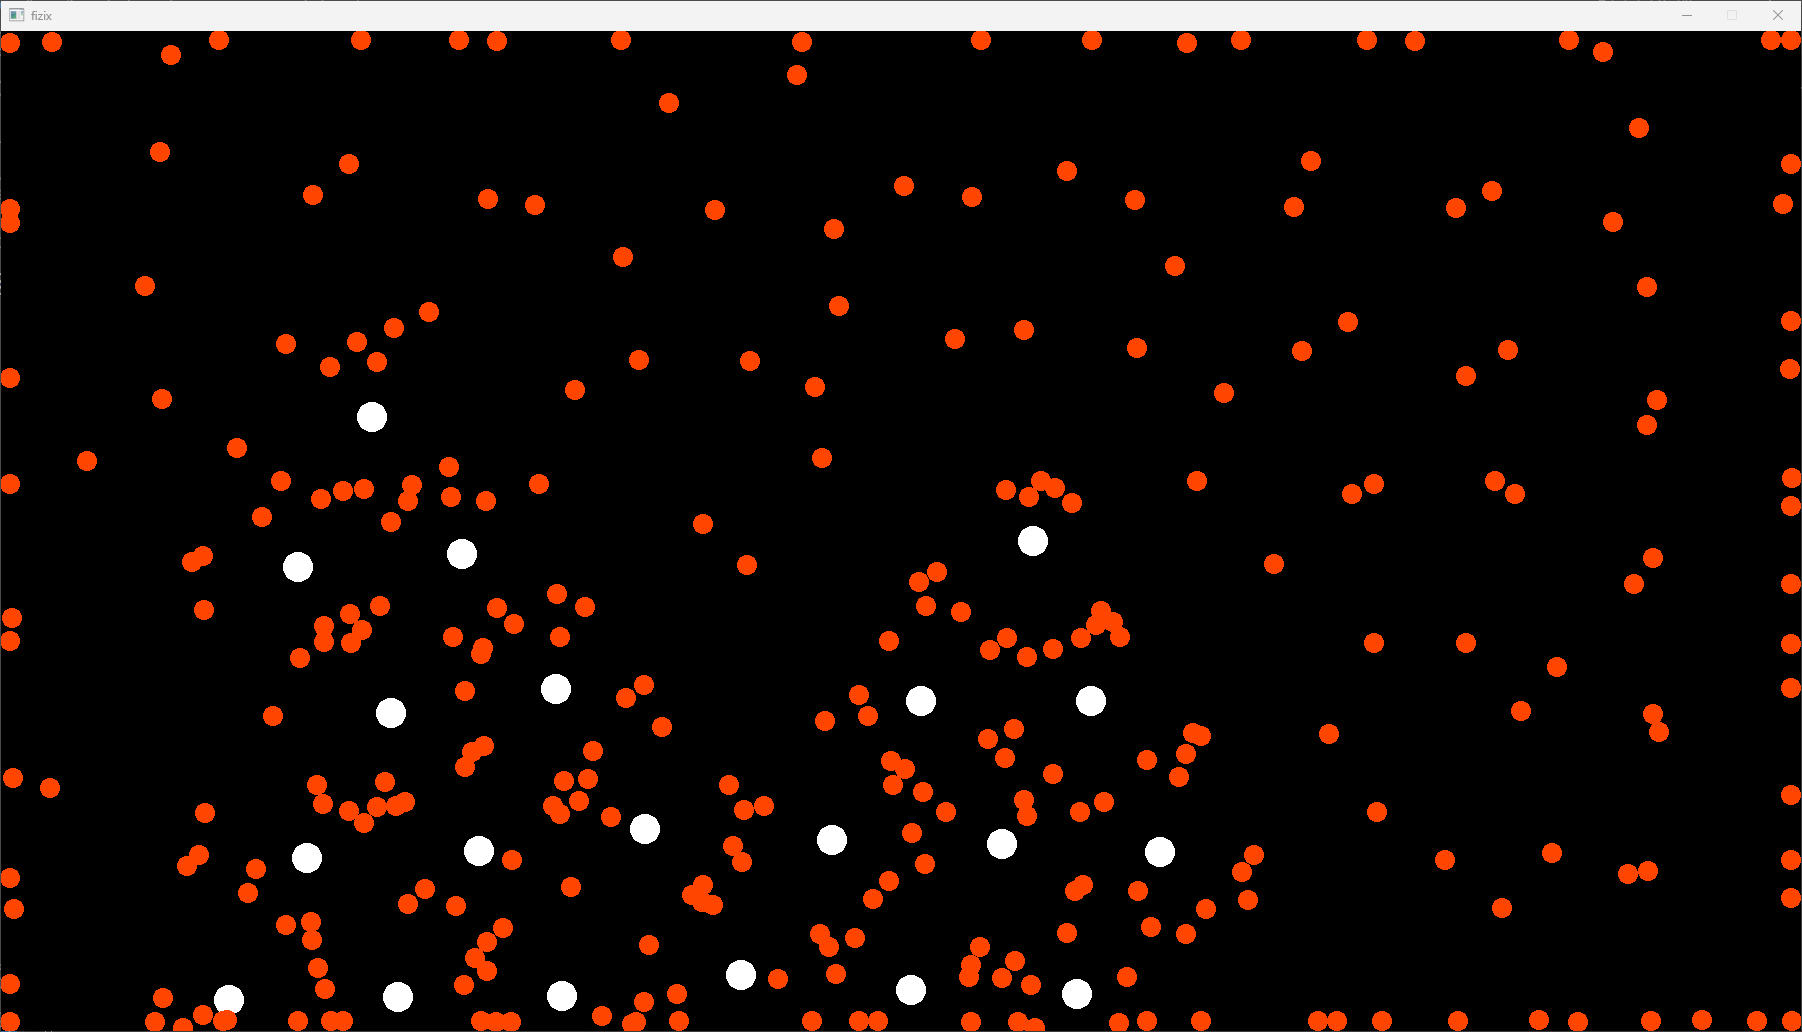
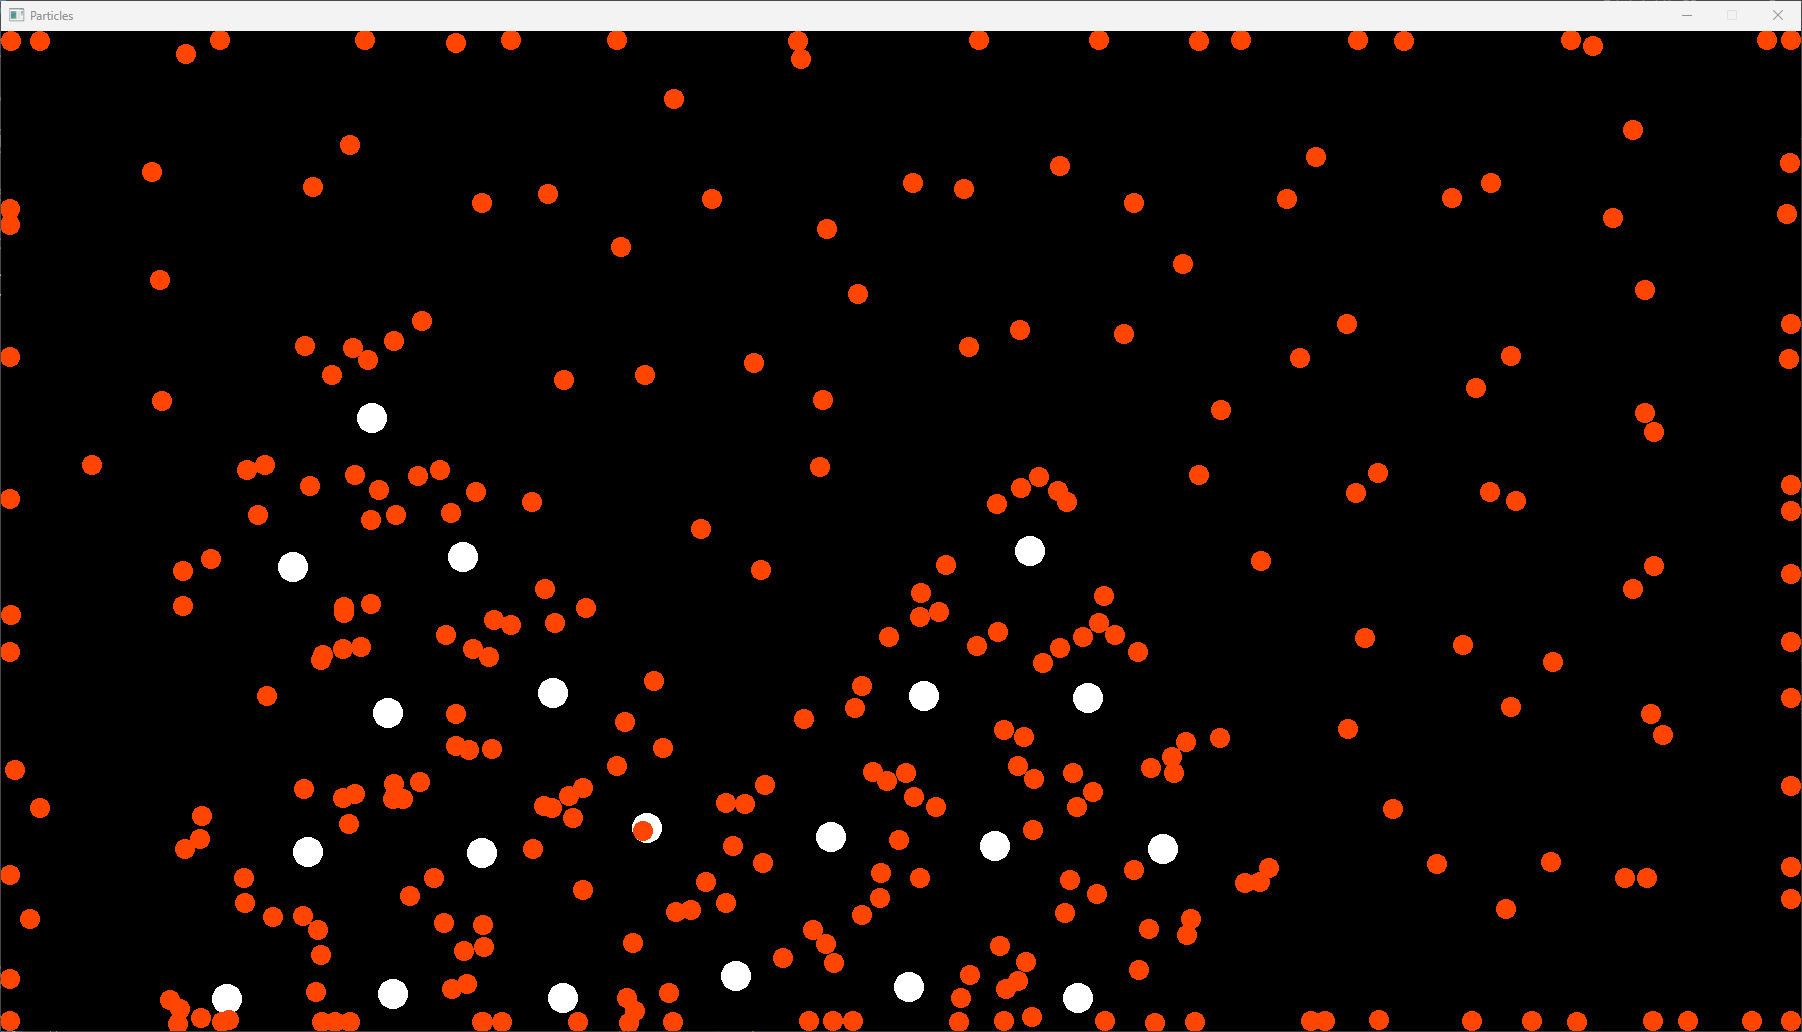
Window title change and more detail in comments

diff --git a/src/main.rs b/src/main.rs
@@ -64,7 +64,7 @@ fn main() {
     const SCREEN_HEIGHT : u64 = 1000;
     let (mut rl, thread) = raylib::init()
         .size(SCREEN_WIDTH as i32, SCREEN_HEIGHT as i32)
-        .title("fizix")
+        .title("Particles")
         .vsync()
         .build();
 
@@ -317,6 +317,7 @@ fn main() {
                 } else {
                     DrawCircle(nodes[i].pos.x as i32, nodes[i].pos.y as i32, nodes[i].radius as f32, Color {r: 255, g: (255. * (nodes[i].mass / 11.)) as u8, b: 0, a: 255}.into());
                 }
+                //if you want to add the circles back in, uncomment the use for DrawCicleLines on line 3
                 //DrawCircleLines(nodes[i].pos.x as i32, nodes[i].pos.y as i32, nodes[i].influence_radius as f32, Color::RED.into());
             }
         }
